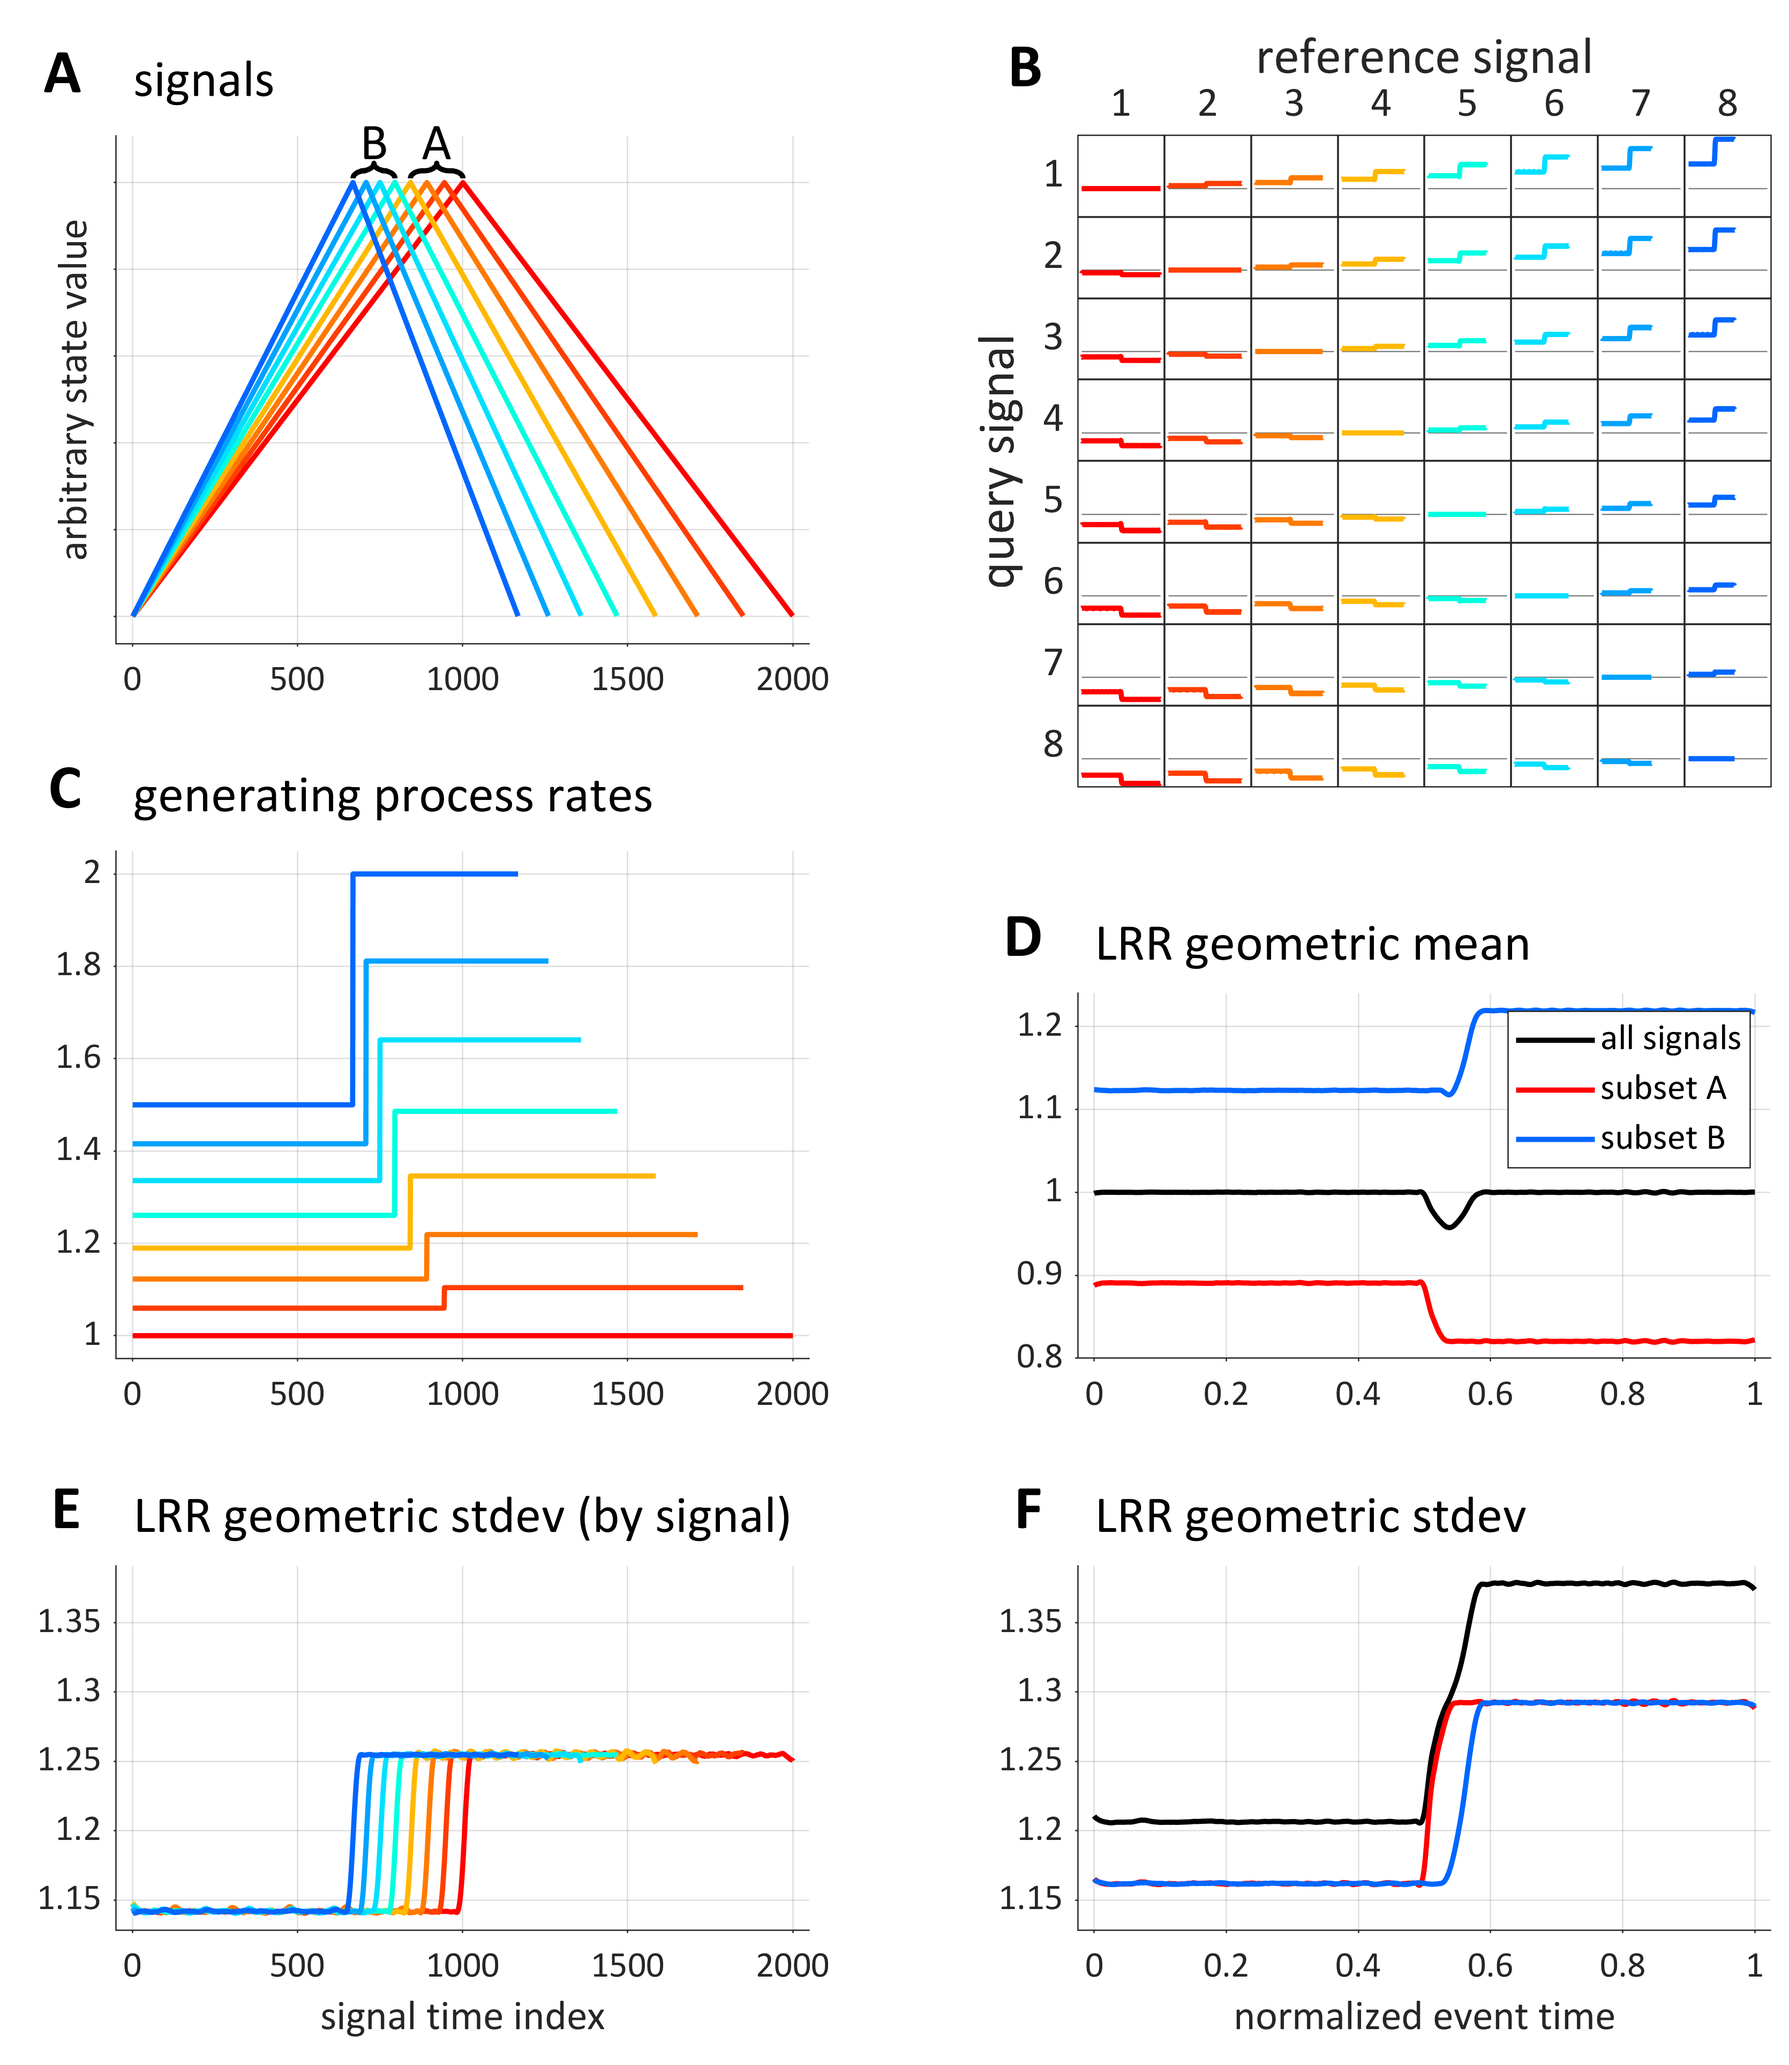
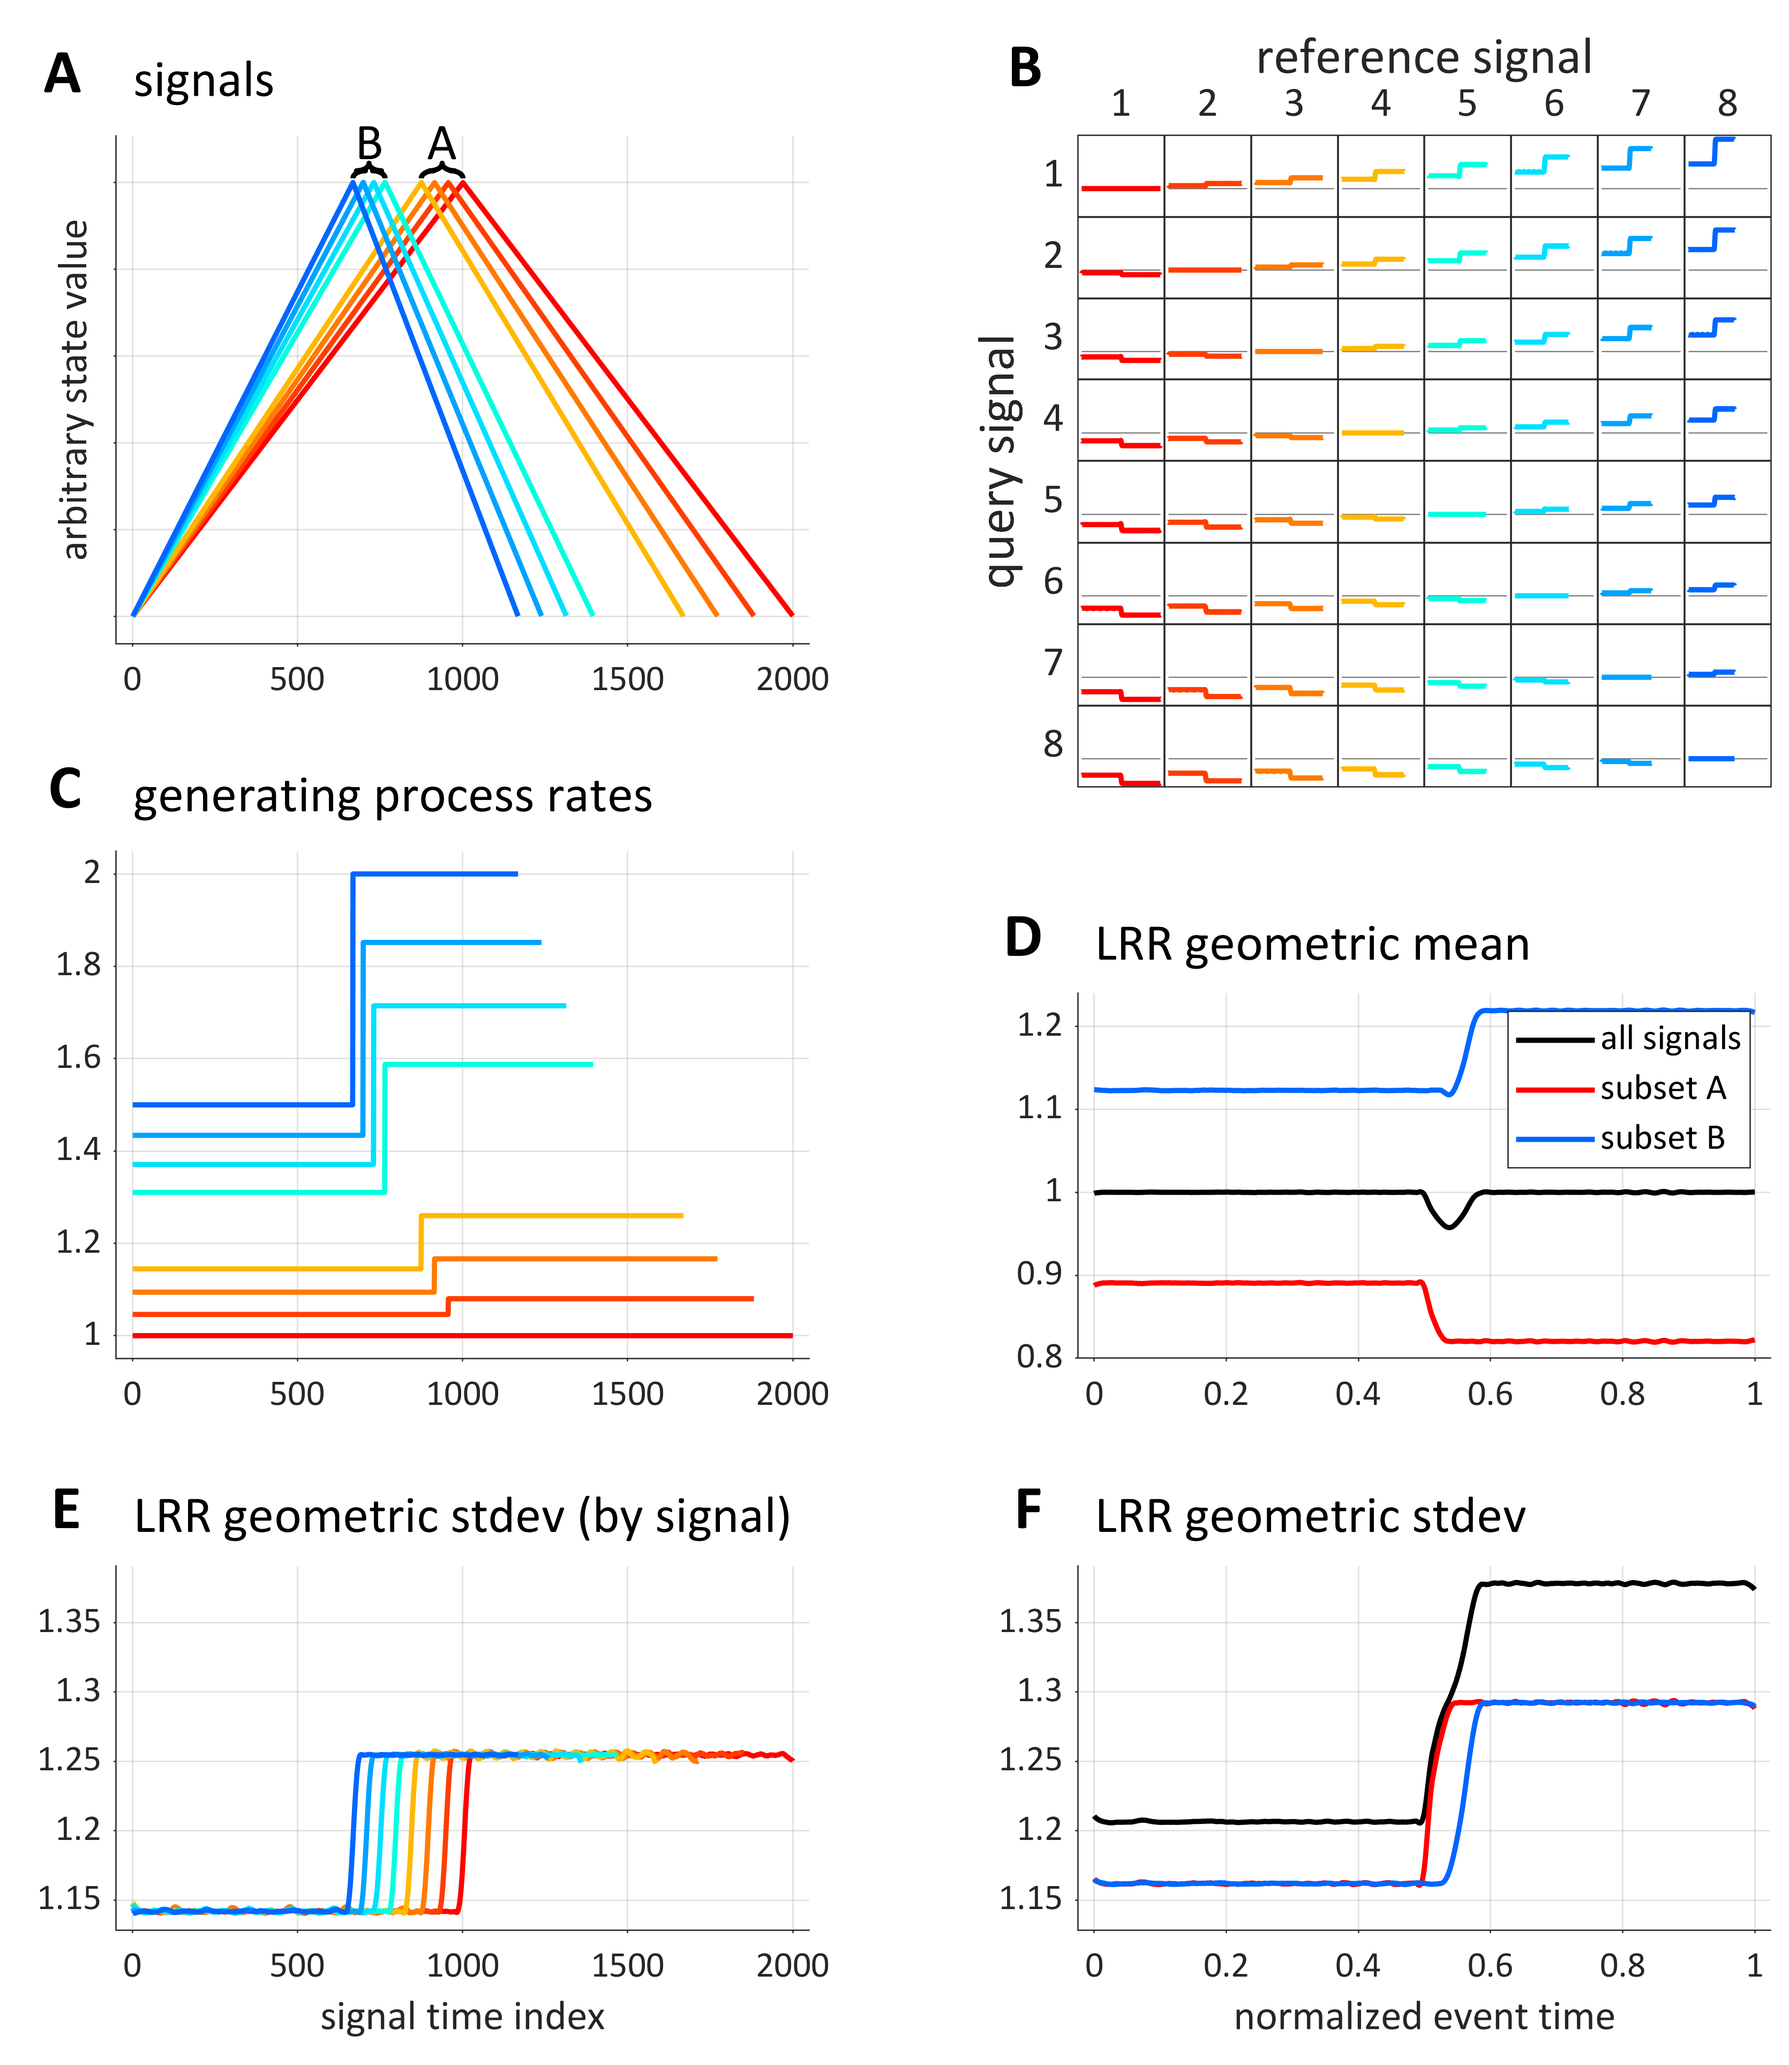
updated figure

Changed region(s): [[0.0623, 0.4359, 0.4048, 0.6539], [0.0934, 0.0623, 0.4359, 0.3114]]

diff --git a/figure_code/fig_temporal_structure.m b/figure_code/fig_temporal_structure.m
@@ -9,7 +9,7 @@ params = {'n',8};
 mean_type = 'geometric'; sdf = 'gsd'; muf = 'gm';
 %mean_type = 'harmonic'; sdf = 'hsd'; muf = 'hm';
 
-S = test_signals('growth_decay_phases',params);
+S = test_signals('growth_decay_phases2',params);
 X = table(S.X',S.rates',S.t','VariableNames',{'X','rates','t'});
 
 overwrite = false;
